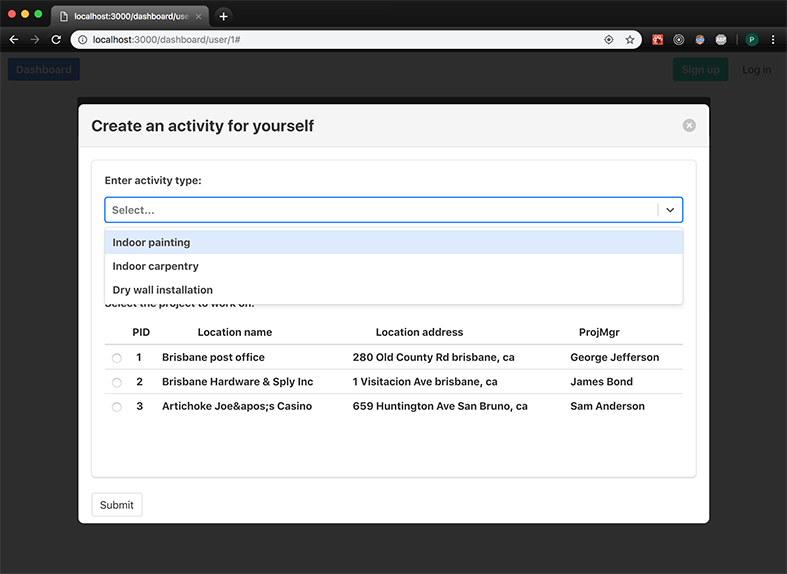
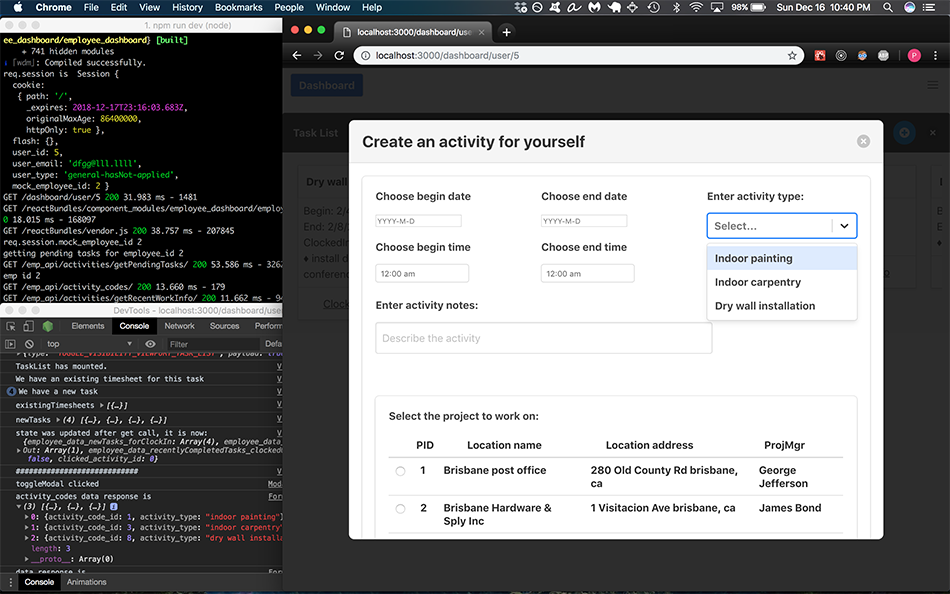
updated a screenshot

diff --git a/src/client/reactComponents/employee_dashboard/forms/Form_addNewActivity.js b/src/client/reactComponents/employee_dashboard/forms/Form_addNewActivity.js
@@ -5,12 +5,10 @@ import Select from 'react-select'
 import DayPickerInput from 'react-day-picker/DayPickerInput'
 import 'react-day-picker/lib/style.css';
 
-import { getLuxon_local_DateTime, combineDateTimes } from '../../lib/general_fns'
+import { getLuxon_local_DateTime, combineDateTimes, make_FirstLetter_UpperCase } from '../../lib/general_fns'
 import TimePicker from 'rc-time-picker'
 import 'rc-time-picker/assets/index.css'
 import moment from 'moment'
-
-
 
 const initialData = [{
   activity_datetime_begin: '',
@@ -95,15 +93,17 @@ class FormAddNewActivity extends Component {
         console.log('activity_codes data response is', response.data)
 
         const labelsForDropdown = response.data.map((currElement) => {
-          let upperCased = currElement.activity_type.replace(/^\w/, function (chr) {
-            return chr.toUpperCase();
-          })
 
+          var activity_type_upperCasedFirstLetter = currElement.activity_type.replace(/^\w/, function (chr) {
+              return chr.toUpperCase();
+          })
           const obj = {
             value: currElement.activity_code_id,
-            label: upperCased 
+          // uppercase the first letter
+            label: activity_type_upperCasedFirstLetter
           }
           
+          // => TO DO: make sure that no html entities show up-- such as &apos; as the apostrophe in "Artechoke Joe's"
           return obj
         })
         
@@ -162,36 +162,25 @@ class FormAddNewActivity extends Component {
 
   // Date input - activity begin date
   handleDayChange_beginDay(day) {
-    // Was going to format, but then realized that it needs to be stored as a timestamp anyway
-    // let luxonFormatted_date = getLuxon_local_DateTime(day, 'date')
     this.setState({ selectedDay_beginDay: day });
   }
 
   // Date input - activity end date
   handleDayChange_endDay(day){
-    // Was going to format, but then realized that it needs to be stored as a timestamp anyway
-    // let luxonFormatted_date = getLuxon_local_DateTime(day, 'date')
-  this.setState({ selectedDay_endDay: day });
+    this.setState({ selectedDay_endDay: day });
   }
 
+  // => TO DO: Implement this basic 'input required' validation
   handleValidation() {
     let fields = this.state.fields;
     let errors = {};
     let formIsValid = true;
-
     
     // check if exists, if not, create error
     if (!this.state.newActivityNotes) {
       formIsValid = false;
       errors["newActivityNotes"] = "Please provide activity notes.";
     }
-
-    // if (typeof this.state.newActivityNotes !== "undefined") {
-    //   if (!this.state.newActivityNotes.match(/^[a-zA-Z]+$/)) {
-    //     formIsValid = false;
-    //     errors["name"] = "Only letters";
-    //   }
-    // }
 
     /* 
     selectedRow, // project row
@@ -229,10 +218,6 @@ class FormAddNewActivity extends Component {
     return formIsValid;
   }
 
-  // handleValueChange = (value) => {
-  //   console.log(value && value.format('HH:mm:ss'));
-  //   this.setState({ timepicker_endTime: value });
-  // }
 
   // Submit form
   onSubmit = (event) => {
@@ -243,18 +228,8 @@ class FormAddNewActivity extends Component {
 
     const { selectedDay_beginDay, selectedDay_endDay, timepicker_beginTime, timepicker_endTime } = this.state
 
-    // todo: First, validate they exist (use validator function in this script)
-    // TODO: VALIDATION
-    // frontend:
-    // user notification of required fields
-    // backend: validation:
-    // validate text-- escape chars
-    // begin_timestamp-- just make sure they exist
-    // end_timestamp-- just make sure they exist
-    // project - selected-- just make sure it exists
-
-    // TODO: Split & concatenate time&date for activity begin & end  time&date selected
-    // ? DONE: Next, check them out... then concatenate date + time ==>
+    // -> Split & concatenate time&date for activity begin & end  time&date selected
+    // ?> idea: add checkbox for 'same day' to end date UI, to autopop activity end date
     const iso_timestamp_activity_begin = combineDateTimes(selectedDay_beginDay, timepicker_beginTime)
     // const iso_timestamp_activity_end = combineDateTimes(selectedDay_endDay, timepicker_endTime)
     console.log('Converted begin in ISO', iso_timestamp_activity_begin)
@@ -262,42 +237,35 @@ class FormAddNewActivity extends Component {
 
 
     /* 
-    ! need 
+    => TO DO:
     frontend:  
-      user notification of required fields
-    backend: validation:
-      validate text -- escape chars
-      begin_timestamp -- just make sure they exist
-      end_timestamp  -- just make sure they exist
-      project-selected  -- just make sure it exists
+      - make sure all fields exist 
+        (use validator function in this script)
+      - user notification of required fields if fields not filled on submit 
+        (use validator function's error array in this script --> add to render)
+      
+    backend: 
+      - validation:
+          text -- escape chars
+          begin_timestamp -- just make sure they exist
+          end_timestamp  -- just make sure they exist
+          project_selected  -- just make sure it exists
 
-      .  activity_code_id
-      .  project_id
-      -> emp_assigned_by 
-          <== Dropdown selector, on the same get all as the other
-          Actually, since it's a self-assigned activity, make it self assigned...
-          either set emp_assigned_by as current emp_id, or perhaps the string 'self-assigned'
-          --Also, perhaps instruct the user to be sure to write the name of the person
-           who suggested they create an activity in the activity notes section (rather than allowing any user to add 'assigned_by' -- that way this field is only affected when managers assign activities themselves)
-      .  emp_assigned_to
-      .  activity_notes
-      ->  activity_datetime_begin <== Date selector
-      ->  activity_datetime_end <== Date selector
-
-      ! Need 2 sets of date & time pickers: begin & end time
-      ! - Activity time begin
-      ! COMBINE THE BEGIN DATE + TIME, AND END DATE + TIME
-      ? https://stackoverflow.com/questions/16597853/combine-date-and-time-string-into-single-date-with-javascript
-      ? https://stackoverflow.com/questions/42404507/moment-js-concatenate-date-and-time
-
-      Step 1- Use my luxon converter to convert dates & times
-      step 2 - change / to -
-      step 3 - follow the rest as mentioned in the accepted answer above
-
-      ! - Activity time end
-          ! - initial date & time value: the same as the begin
-
+      
+     Date to ultimately create on backend:
+      .   activity_code_id
+      .   project_id
+      .   emp_assigned_by < - since it's a self-assigned activity, make it self assigned...
+             either set emp_assigned_by as current emp_id, or perhaps the string 'self-assigned'
+             --Also, perhaps instruct the user to be sure to write the name of the person
+             who suggested they create an activity in the activity notes section(rather than allowing any user to add 'assigned_by' -- that way this field is only affected when managers assign activities themselves)
+      .   emp_assigned_to
+      .   activity_notes
+      .   activity_datetime_begin --> iso string
+      .   activity_datetime_end --> iso string
     */
+
+    // ! post call
     // axios.post('/emp_api/activities/create/selfAssignedTask', {
       // activity_code_id: 
       // project_id: 

diff --git a/src/client/reactComponents/employee_dashboard/Viewport_TaskList.js b/src/client/reactComponents/employee_dashboard/Viewport_TaskList.js
@@ -2,7 +2,7 @@ import React, { Component }  from 'react';
 import { toggle_Visibility_Viewport_TaskList } from "./redux/actions"
 import { connect } from 'react-redux'
 import axios from "axios"
-import { getLuxon_local_DateTime } from "../lib/general_fns"
+import { getLuxon_local_DateTime, make_FirstLetter_UpperCase } from "../lib/general_fns"
 import ModalAddNewActivity from './ModalAddNewActivity'
 
 // import { library } from '@fortawesome/fontawesome-svg-core';
@@ -233,7 +233,9 @@ class Viewport_TaskList extends Component {
           <div className="card">
             <header className="card-header">
               <p className="card-header-title">
-                {obj.activity_type} A_ID: { obj.activity_id }
+                {obj.activity_type.replace(/^\w/, function (chr) {
+                  return chr.toUpperCase();
+                })} A_ID: { obj.activity_id }
               </p>
             </header>
             <div className="card-content smallSpacing">
@@ -286,7 +288,9 @@ class Viewport_TaskList extends Component {
           <div className="card">
             <header className="card-header">
               <p className="card-header-title">
-                {obj.activity_type} A_ID: {obj.activity_id}
+                {obj.activity_type.replace(/^\w/, function (chr) {
+                  return chr.toUpperCase();
+                })} A_ID: {obj.activity_id}
               </p>
             </header>
             <div className="card-content smallSpacing">

diff --git a/src/client/reactComponents/lib/general_fns.js b/src/client/reactComponents/lib/general_fns.js
@@ -44,7 +44,7 @@ var combineDateTimes = (date, time) => {
   return combined_DateTime_iso
 
   /*  // ! ###############################################################################################
-         ! DO NOT DELETE -- This is the test. Add it to a test script later. ############################# */
+         ! DO NOT DELETE -- This is the test.  Reference it to create a test script later. ############################# */
   // * Note: test_step3_combined_DateTime_ISO & test_step3_combined_DateTime_UTC represent the same exact thing, just different formats
   // * Step 1: Use example dates & times
   // * Note: we only care about the date on this: 12/03/2018

diff --git a/src/client/reactComponents/lib/adminDataTable_getData_fns.js b/src/client/reactComponents/lib/adminDataTable_getData_fns.js
@@ -2,6 +2,9 @@ import React from "react"
 import axios from 'axios'
 
 /* 
+current notes: ==> dropdown selector: chooses the table to display.
+
+previous notes:
 This is for the dropdown selector in ../admin_dashboard/Viewport_AdminDataTable.js
 it gets pre-population data for admin data table-- so it taps endpooints which provide info on several main tables
 
